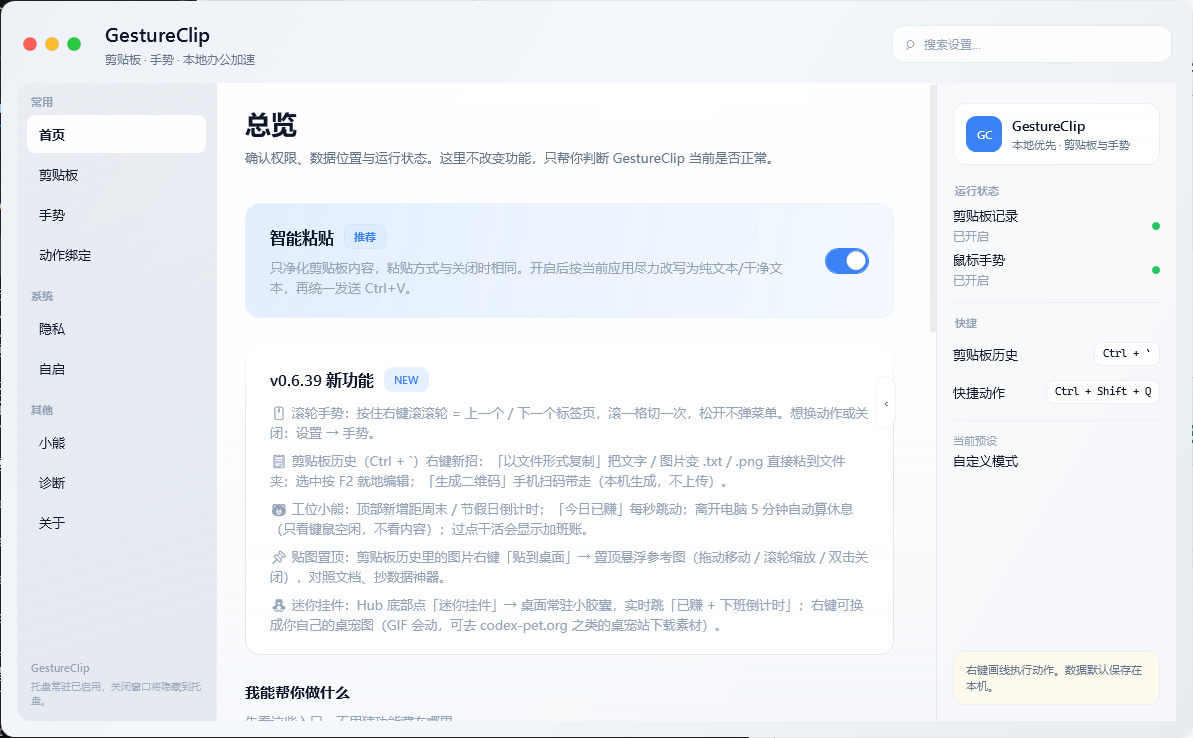
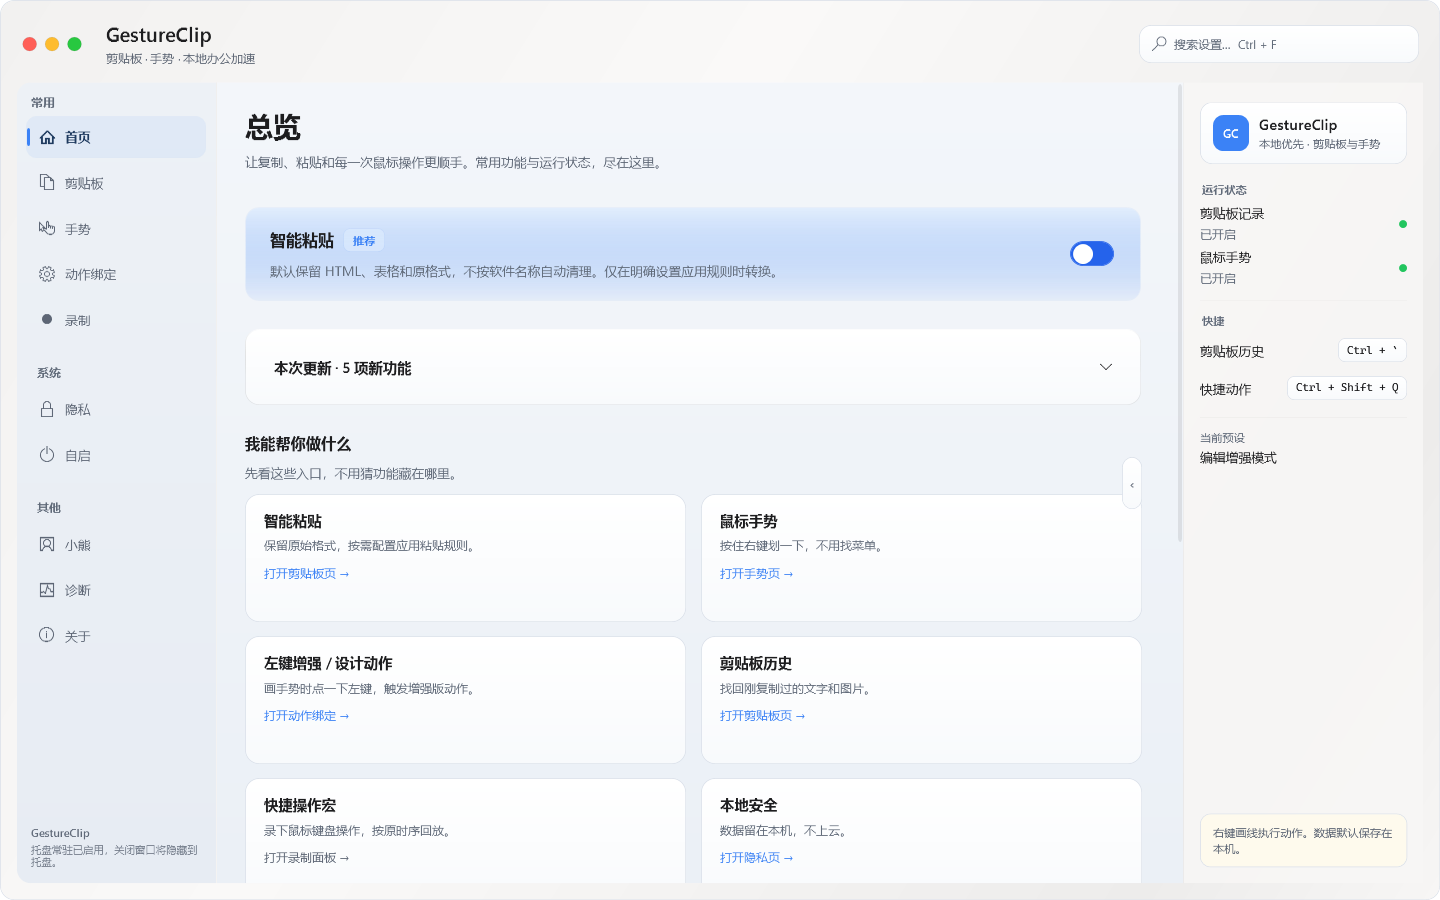
docs: refresh GestureClip feature guide and screenshots

diff --git a/README.md b/README.md
@@ -131,7 +131,7 @@
 - **贴图置顶**：历史图片一键贴到桌面变置顶参考图（拖动 / 滚轮缩放 / 双击关闭，可贴多张）
 - 可暂停记录；数据在本机 SQLite
 
-![剪贴板](docs/images/settings-clipboard.png)
+![紧凑剪贴板历史，选中项右侧显示快捷操作](docs/images/clipboard-history.png)
 
 ### 2. 快捷键
 
@@ -168,16 +168,22 @@
 
 ![动作绑定](docs/images/gesture-bindings.png)
 
-### 5. 手势 HUD + 工位小熊（可选）
+### 5. 快捷操作宏
 
-划手势时显示当前动作；可打开工位小熊看今日收益估算、下班倒计时、复制/粘贴统计与等级。**可关闭。**
+在设置左侧打开「录制」。切换到目标应用后，按 `F8` 或按住右键画 `<` 开始录制鼠标、键盘和滚轮，再操作一次停止并保存。选中已保存的宏后，按 `F9` 或画 `>` 回放。回放右上角显示进度，用 `Esc` 或再画一次 `>` 中止。
+
+![按住右键画小于号录制或停止，画大于号回放或中止](docs/images/macro-gestures.png)
+
+### 6. 手势 HUD + 工位小熊（可选）
+
+划手势时，浮层显示方向、动作和快捷键，底色随工作时段切换。工位小熊可查看今日收益估算、下班倒计时、复制和粘贴统计。两项都可在设置中关闭。
 
 - **今日已赚每秒跳动** + 距周末 / 法定节假日倒计时（本地内置假日表）
 - **活动驱动休息判断**：离开电脑 5 分钟自动算休息，人在休息不弹提醒（只看键鼠空闲，不识别应用）
 - 过了下班点显示**加班账**：已加班时长 ≈ 白送老板多少钱
 - **迷你挂件**：桌面常驻置顶小胶囊（已赚 + 倒计时），可拖动、可换自定义桌宠图（GIF 会动）
 
-![手势 HUD](docs/images/gesture-hud-workbear.png)
+![下午暖红色手势浮层：上划复制](docs/images/gesture-hud-workbear.png)
 
 ![工位小熊](docs/images/workbear-panel.png)
 
@@ -280,7 +286,9 @@ powershell -NoProfile -ExecutionPolicy Bypass -File .\scripts\check-ui-performan
 
 ## 截图
 
-| 首页 | 剪贴板 |
+以下界面来自 v0.6.48，使用示例数据。
+
+| 首页 | 剪贴板设置 |
 | --- | --- |
 | ![首页](docs/images/settings-home.png) | ![剪贴板](docs/images/settings-clipboard.png) |
 
@@ -288,7 +296,7 @@ powershell -NoProfile -ExecutionPolicy Bypass -File .\scripts\check-ui-performan
 | --- | --- |
 | ![手势](docs/images/settings-gestures.png) | ![绑定](docs/images/gesture-bindings.png) |
 
-| HUD | 工位小熊 |
+| 手势浮层 | 工位小熊 |
 | --- | --- |
 | ![HUD](docs/images/gesture-hud-workbear.png) | ![小熊](docs/images/workbear-panel.png) |
 

diff --git a/docs/DEMO_30S.md b/docs/DEMO_30S.md
@@ -1,6 +1,6 @@
 # GestureClip 30 秒上手演示
 
-> 本地优先：剪贴板历史 + 鼠标手势 + 可选工位小熊。不登录、不上传。
+> 本地优先：剪贴板历史、鼠标手势、快捷操作宏与可选工位小熊。不登录、不上传。
 
 ## 1. 安装（约 10 秒）
 
@@ -14,7 +14,7 @@
 
 图片会尝试本地 OCR，可在历史里用关键字搜图中文字。固定/收藏条目不会被定时清理。
 
-![设置 · 剪贴板](images/settings-clipboard.png)
+![新版剪贴板历史](images/clipboard-history.png)
 
 1. 按 `Ctrl + \`` 打开历史  
 2. 搜索刚才复制的内容  
@@ -30,9 +30,15 @@
 
 ![手势绑定](images/gesture-bindings.png)
 
-## 4. 可选：工位小熊
+## 4. 录制重复操作
 
-![工位小熊](images/workbear-hub-v0.6.0-beta.png)
+按住右键画 `<` 开始录制，再画一次停止并保存。画 `>` 回放已选宏，再画一次或按 `Esc` 中止。也可用 `F8` 录制、`F9` 回放。
+
+![录制、停止、回放和中止的手势](images/macro-gestures.png)
+
+## 5. 可选：工位小熊
+
+![新版工位小熊 Hub](images/workbear-panel.png)
 
 托盘 → 工位小熊：填月薪与上下班时间，看「还要熬多久」。
 
@@ -41,10 +47,12 @@
 | 画面 | 文件 |
 | --- | --- |
 | 设置首页 | [settings-home.png](images/settings-home.png) |
+| 剪贴板历史 | [clipboard-history.png](images/clipboard-history.png) |
 | 剪贴板设置 | [settings-clipboard.png](images/settings-clipboard.png) |
 | 手势设置 | [settings-gestures.png](images/settings-gestures.png) |
 | 动作绑定 | [gesture-bindings.png](images/gesture-bindings.png) |
-| HUD / 小熊 | [gesture-hud-workbear.png](images/gesture-hud-workbear.png) |
+| 手势浮层 | [gesture-hud-workbear.png](images/gesture-hud-workbear.png) |
+| 录制手势 | [macro-gestures.png](images/macro-gestures.png) |
 
 ## 录制真实 GIF（可选）
 

diff --git a/docs/github-release-v0.6.48-beta.md b/docs/github-release-v0.6.48-beta.md
@@ -6,6 +6,18 @@ Windows 本地剪贴板历史、鼠标手势和快捷操作宏。本版重点是
 - **录制与回放**：按住右键快速画 `<` 开始或停止录制，画 `>` 回放或中止。短划保留实际采样的拐点，并在松键时补入终点。录制指令无需等待浮层关闭，面板明确区分正在启动、保存中和已保存。
 - **手势浮层和图标**：保留精简布局，并恢复跟随工作时段的渐变颜色。程序、窗口和托盘统一使用三色渐变 G。
 
+## 界面截图
+
+以下是 v0.6.48 用示例数据渲染的界面。
+
+| 剪贴板历史 | 录制手势 |
+| --- | --- |
+| ![紧凑剪贴板历史](images/clipboard-history.png) | ![录制和回放手势](images/macro-gestures.png) |
+
+| 上午浮层 | 下午浮层 |
+| --- | --- |
+| ![上午青绿色浮层](images/gesture-hud-morning.png) | ![下午暖红色浮层](images/gesture-hud-workbear.png) |
+
 ## 下载与更新
 
 - `GestureClip-Setup-v0.6.48-beta-win-x64.zip`：解压后运行 `Setup.cmd`。
